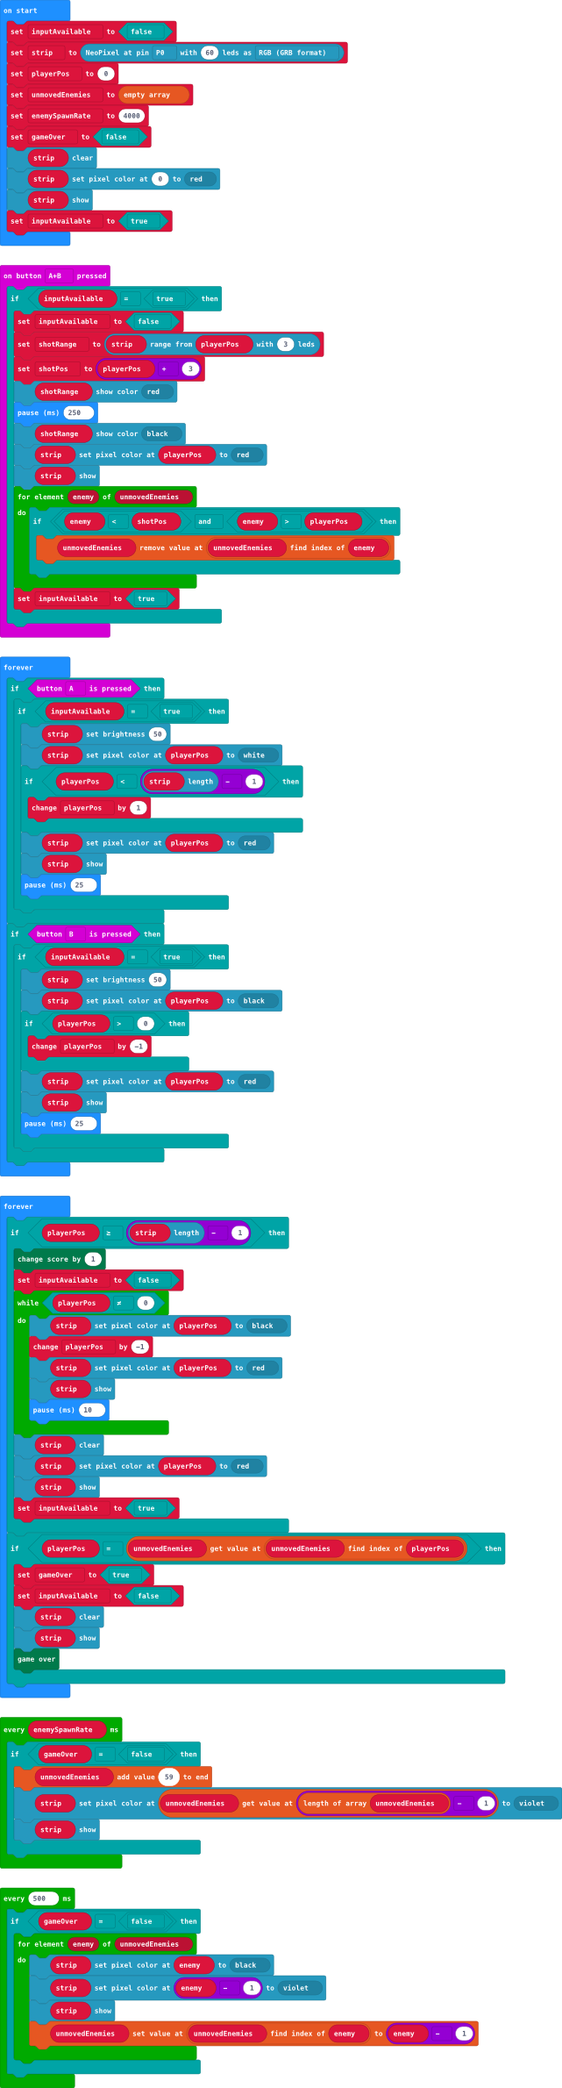
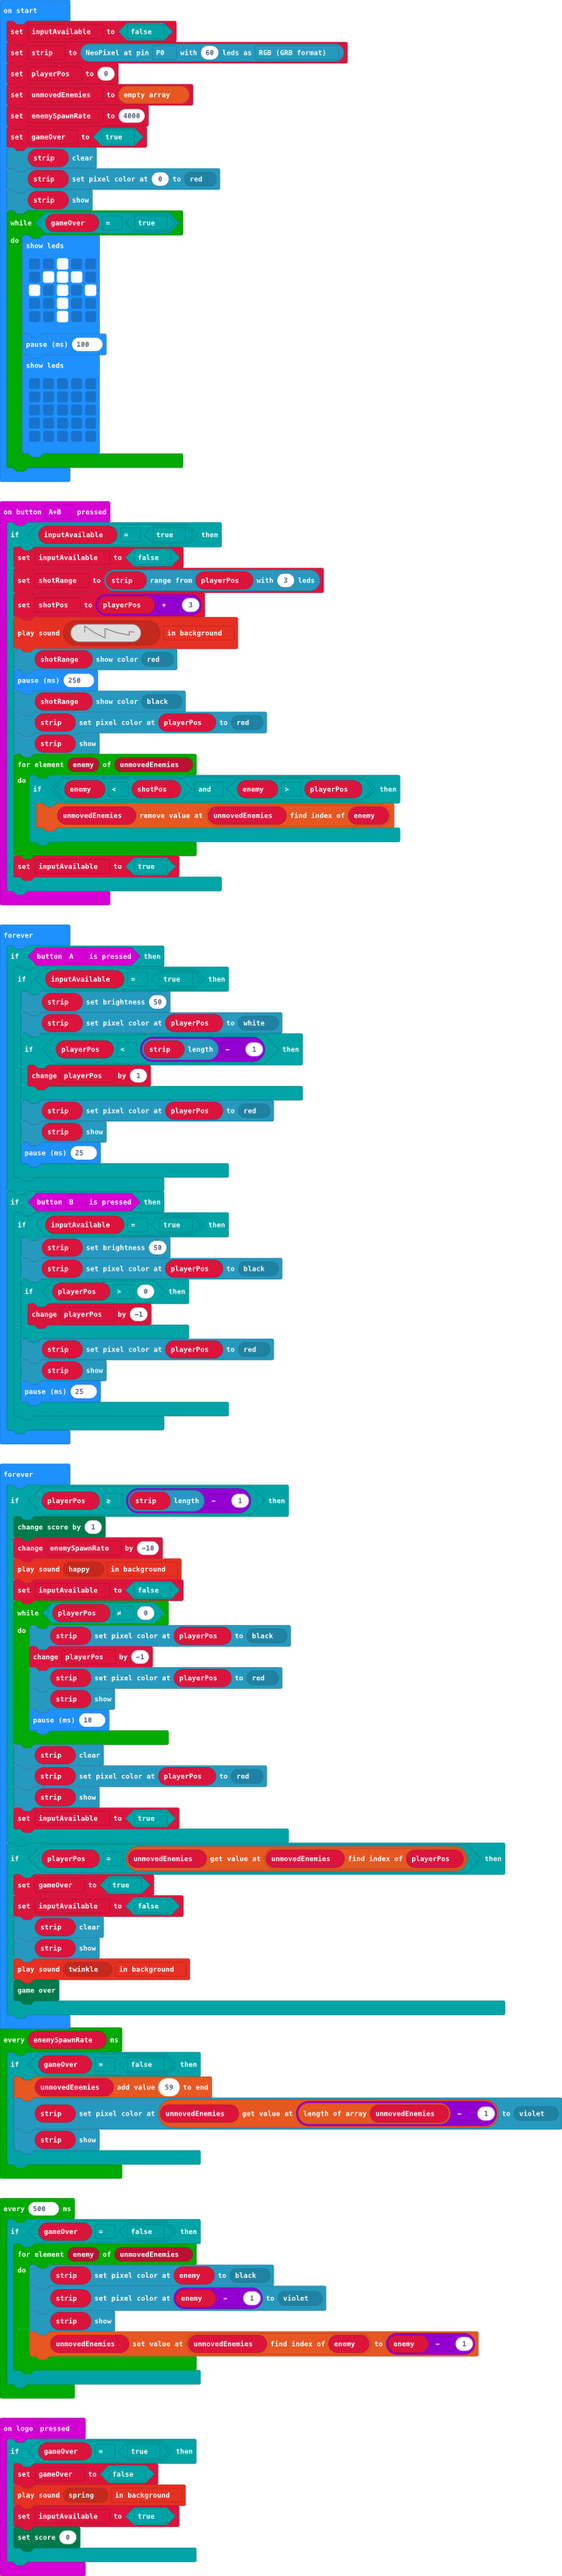
Added sound. Changed enemy spawn speed when you score. Added “start button”.

diff --git a/main.ts b/main.ts
@@ -3,6 +3,7 @@ input.onButtonPressed(Button.AB, function () {
         inputAvailable = false
         shotRange = strip.range(playerPos, 3)
         shotPos = playerPos + 3
+        music.playSoundEffect(music.createSoundEffect(WaveShape.Sawtooth, 1589, 1, 255, 0, 317, SoundExpressionEffect.None, InterpolationCurve.Curve), SoundExpressionPlayMode.InBackground)
         shotRange.showColor(neopixel.colors(NeoPixelColors.Red))
         basic.pause(250)
         shotRange.showColor(neopixel.colors(NeoPixelColors.Black))
@@ -16,8 +17,17 @@ input.onButtonPressed(Button.AB, function () {
         inputAvailable = true
     }
 })
+input.onLogoEvent(TouchButtonEvent.Pressed, function () {
+    if (gameOver == true) {
+        gameOver = false
+        music.playSoundEffect(music.builtinSoundEffect(soundExpression.spring), SoundExpressionPlayMode.InBackground)
+        inputAvailable = true
+        game.setScore(0)
+    }
+})
 let shotPos = 0
 let shotRange: neopixel.Strip = null
+let gameOver = false
 let unmovedEnemies: number[] = []
 let playerPos = 0
 let strip: neopixel.Strip = null
@@ -27,11 +37,27 @@ strip = neopixel.create(DigitalPin.P0, 60, NeoPixelMode.RGB)
 playerPos = 0
 unmovedEnemies = []
 let enemySpawnRate = 4000
-let gameOver = false
+gameOver = true
 strip.clear()
 strip.setPixelColor(0, neopixel.colors(NeoPixelColors.Red))
 strip.show()
-inputAvailable = true
+while (gameOver == true) {
+    basic.showLeds(`
+        . . # . .
+        . # # # .
+        # . # . #
+        . . # . .
+        . . # . .
+        `)
+    basic.pause(100)
+    basic.showLeds(`
+        . . . . .
+        . . . . .
+        . . . . .
+        . . . . .
+        . . . . .
+        `)
+}
 loops.everyInterval(500, function () {
     if (gameOver == false) {
         for (let enemy of unmovedEnemies) {
@@ -71,6 +97,8 @@ basic.forever(function () {
 basic.forever(function () {
     if (playerPos >= strip.length() - 1) {
         game.addScore(1)
+        enemySpawnRate += -10
+        music.playSoundEffect(music.builtinSoundEffect(soundExpression.happy), SoundExpressionPlayMode.InBackground)
         inputAvailable = false
         while (playerPos != 0) {
             strip.setPixelColor(playerPos, neopixel.colors(NeoPixelColors.Black))
@@ -89,6 +117,7 @@ basic.forever(function () {
         inputAvailable = false
         strip.clear()
         strip.show()
+        music.playSoundEffect(music.builtinSoundEffect(soundExpression.twinkle), SoundExpressionPlayMode.InBackground)
         game.gameOver()
     }
 })
